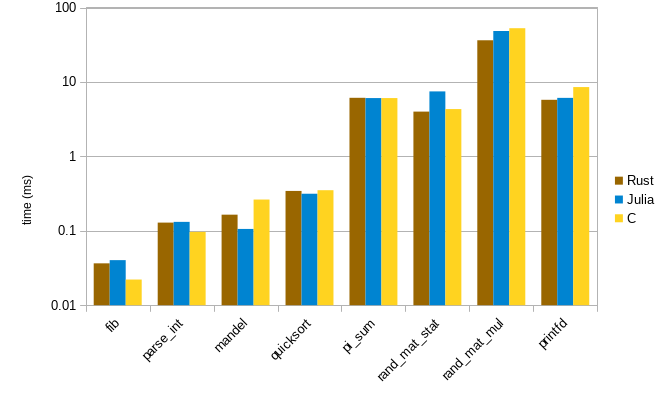
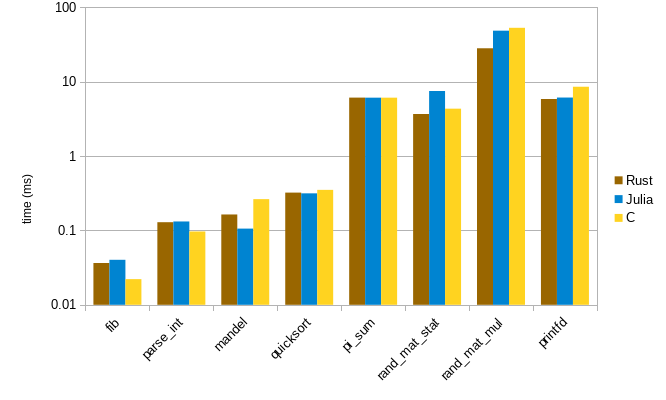
Use MT19937_64 version of RNG (faster)

diff --git a/src/main.rs b/src/main.rs
@@ -16,7 +16,14 @@ use blas::c::{dgemm, Layout, Transpose};
 use test::black_box;
 use num::complex::Complex64;
 use rand::{SeedableRng, Rng};
-use mersenne_twister::MT19937;
+use mersenne_twister::MT19937_64;
+
+type MTRng = MT19937_64;
+
+#[inline]
+fn gen_rng(seed: u64) -> MTRng {
+    MTRng::from_seed(seed)
+}
 
 const NITER: u32 = 5;
 
@@ -81,7 +88,7 @@ fn pisum() -> f64 {
 }
 
 fn randmatstat(t: usize) -> (f64, f64) {
-    let mut rng = MT19937::from_seed(1234u32);
+    let mut rng = gen_rng(1234u64);
 
     let n = 5;
 
@@ -230,10 +237,6 @@ fn quicksort(mut a: &mut [f64], mut lo: usize) {
     }
 }
 
-fn init_gen_rand(seed: u32) -> MT19937 {
-    MT19937::from_seed(seed)
-}
-
 fn printfd(n: usize) {
     let f = OpenOptions::new()
         .write(true).open("/dev/null").unwrap();
@@ -264,7 +267,7 @@ fn measure_best<F: FnMut()>(niters: u32, mut op: F) -> Duration {
 
 fn main() {
     // initialize RNG
-    let mut rng = init_gen_rand(0);
+    let mut rng = gen_rng(0);
 
     // fib(20)
     assert_eq!(fib(20), 6765);
